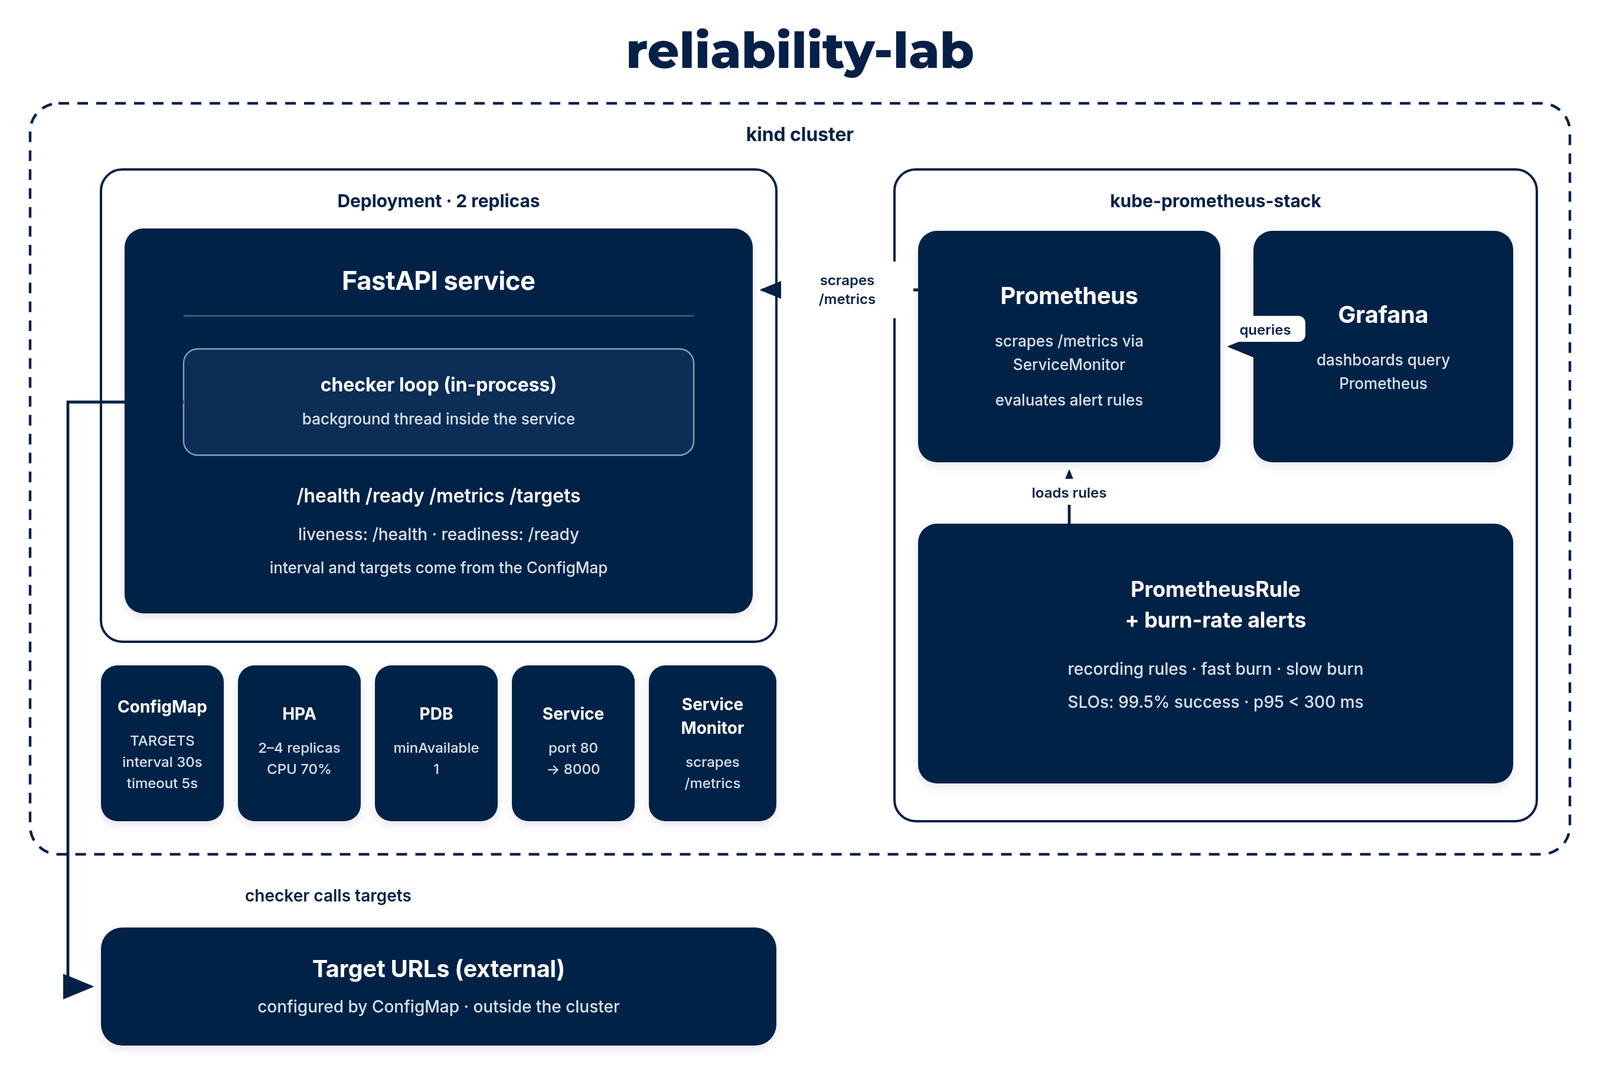
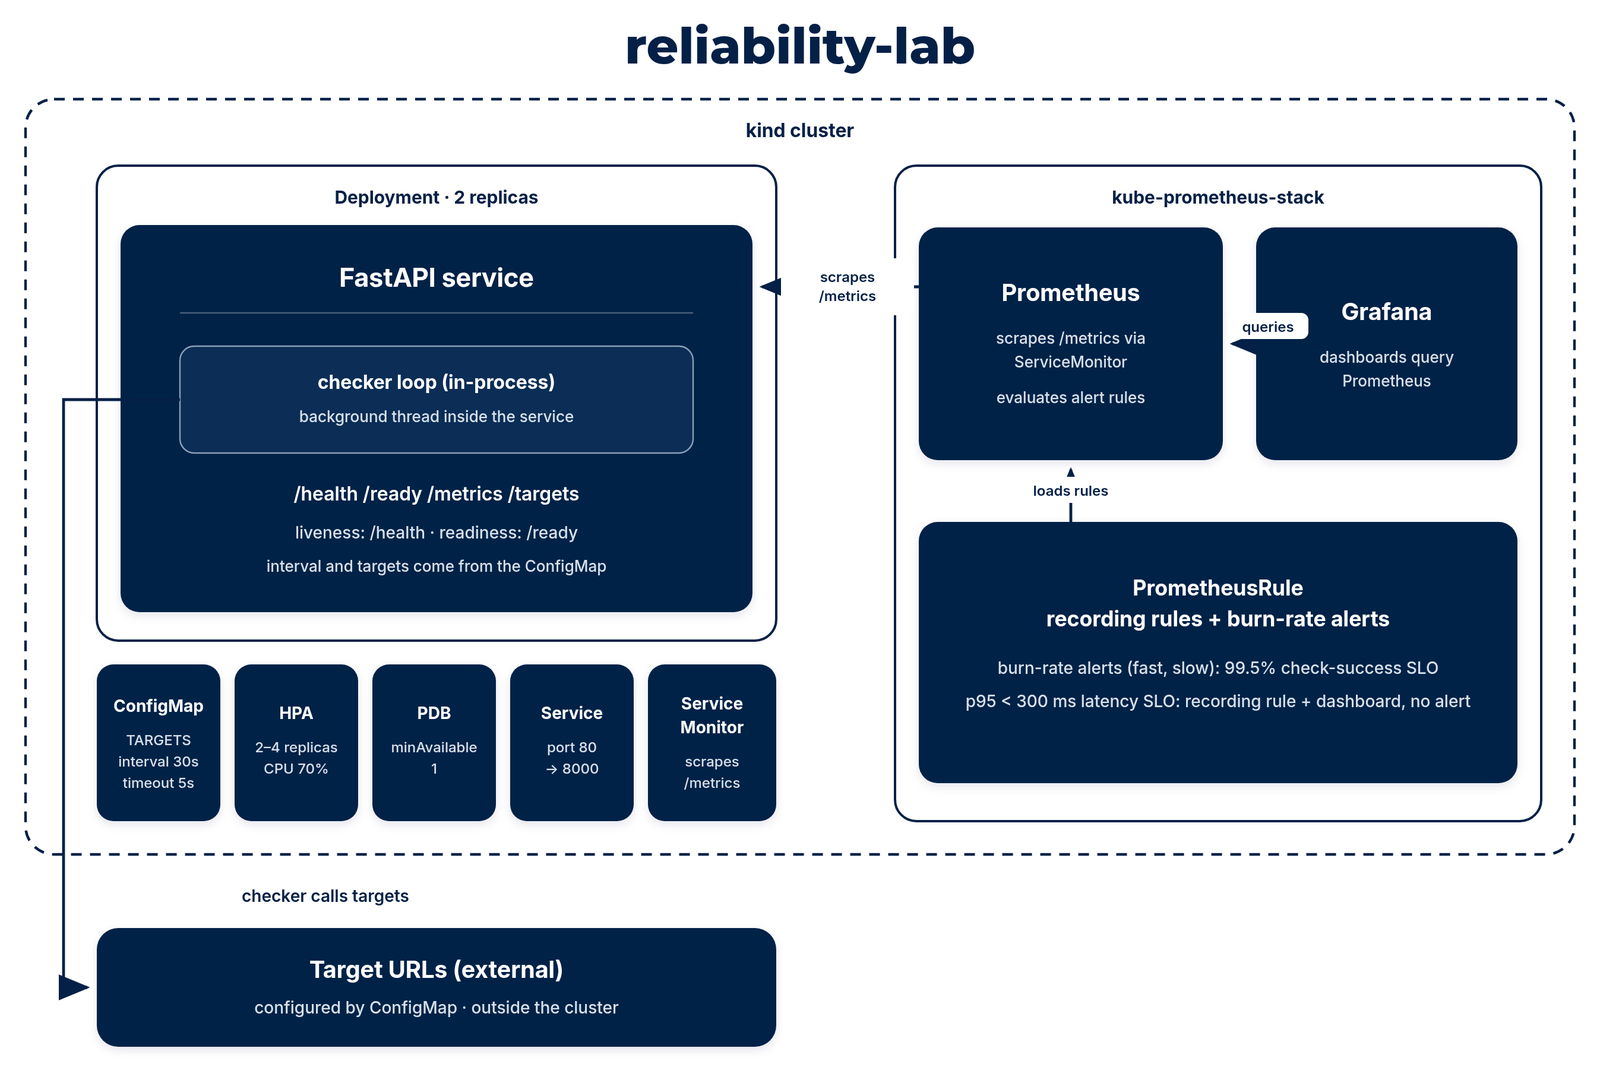
Make docs match the code and the drill; reproducible quickstart
- State that the live alert drill used a simplified single-window
  fast-burn rule; the committed multi-window rule is covered by promtool
  tests. Re-run with the committed rule listed as pending.
- Makefile: install kube-prometheus-stack (release mon, namespace
  monitoring) before applying CRs, load the Grafana dashboard ConfigMap,
  apply namespace.yaml first, optional metrics-server target.
- Rename error_budget_remaining to error_budget_burn_rate:ratio_rate5m
  (it is a 5m burn rate) in rules, k8s manifest, dashboard, docs, tests.
- Fix SLO error-budget math and per-replica note; update measured section.
- Latency SLO: recording rule and dashboard only; diagram and README say so.
- Add promtool tests for slow burn, no burn, and the burn-rate rule.
- Sync test now also covers recording rules and dashboard queries.
- Billing alarm notifies an SNS topic with optional email subscription.
- Runbook escalation consistent with 14.4x burn (~50h budget).
- Correct pod-kill postmortem root cause.
- Validate-only wording in Terraform and DESIGN.
- CI badge, Limitations (HPA needs metrics-server, quickstart not re-run).

diff --git a/tests/test_prometheusrule_sync.py b/tests/test_prometheusrule_sync.py
@@ -1,28 +1,35 @@
-"""Keep k8s PrometheusRule alerts in sync with the promtool-tested source."""
+"""Keep the k8s PrometheusRule in sync with the promtool-tested source files."""
 
 from __future__ import annotations
 
+import json
 from pathlib import Path
 
 import yaml
 
 ROOT = Path(__file__).resolve().parents[1]
-SOURCE = ROOT / "observability" / "alert-rules.yaml"
+ALERTS = ROOT / "observability" / "alert-rules.yaml"
+RECORDING = ROOT / "observability" / "recording-rules.yaml"
 MANIFEST = ROOT / "k8s" / "prometheusrule.yaml"
+DASHBOARD = ROOT / "observability" / "grafana-dashboard.json"
 
 
 def _normalize_expr(expr: str) -> str:
     return " ".join(expr.split())
 
 
-def _alerts_by_name(groups: list[dict]) -> dict[str, dict]:
-    alerts: dict[str, dict] = {}
+def _rules_by_key(groups: list[dict], key: str) -> dict[str, dict]:
+    rules: dict[str, dict] = {}
     for group in groups:
         for rule in group.get("rules", []):
-            name = rule.get("alert")
+            name = rule.get(key)
             if name:
-                alerts[name] = rule
-    return alerts
+                rules[name] = rule
+    return rules
+
+
+def _manifest_groups() -> list[dict]:
+    return yaml.safe_load(MANIFEST.read_text())["spec"]["groups"]
 
 
 def test_prometheusrule_release_label():
@@ -31,10 +38,8 @@ def test_prometheusrule_release_label():
 
 
 def test_k8s_prometheusrule_alerts_match_observability_source():
-    source = yaml.safe_load(SOURCE.read_text())
-    manifest = yaml.safe_load(MANIFEST.read_text())
-    src_alerts = _alerts_by_name(source["groups"])
-    k8s_alerts = _alerts_by_name(manifest["spec"]["groups"])
+    src_alerts = _rules_by_key(yaml.safe_load(ALERTS.read_text())["groups"], "alert")
+    k8s_alerts = _rules_by_key(_manifest_groups(), "alert")
 
     assert src_alerts.keys() == k8s_alerts.keys()
 
@@ -43,3 +48,24 @@ def test_k8s_prometheusrule_alerts_match_observability_source():
         assert _normalize_expr(got["expr"]) == _normalize_expr(src["expr"]), name
         assert got.get("labels") == src.get("labels"), name
         assert got.get("for") == src.get("for"), name
+
+
+def test_k8s_prometheusrule_recording_rules_match_observability_source():
+    src = _rules_by_key(yaml.safe_load(RECORDING.read_text())["groups"], "record")
+    k8s = _rules_by_key(_manifest_groups(), "record")
+
+    assert src.keys() == k8s.keys()
+
+    for name, rule in src.items():
+        assert _normalize_expr(k8s[name]["expr"]) == _normalize_expr(rule["expr"]), name
+
+
+def test_dashboard_queries_use_defined_recording_rules():
+    recorded = set(_rules_by_key(yaml.safe_load(RECORDING.read_text())["groups"], "record"))
+    dashboard = json.loads(DASHBOARD.read_text())
+    for panel in dashboard["panels"]:
+        for target in panel["targets"]:
+            expr = target["expr"]
+            if expr.startswith("reliability:"):
+                assert expr in recorded, expr
+    assert "reliability:error_budget_burn_rate:ratio_rate5m" in recorded

diff --git a/README.md b/README.md
@@ -1,5 +1,7 @@
 # reliability-lab
 
+[![ci](https://github.com/dardan-hoxhaj/reliability-lab/actions/workflows/ci.yml/badge.svg?branch=main)](https://github.com/dardan-hoxhaj/reliability-lab/actions/workflows/ci.yml?query=branch%3Amain)
+
 A small URL monitor run like a production system: checks, SLOs, burn-rate alerts, and failure drills.
 
 Status: drills were run on a kind cluster (2026-11-14). No AWS resources have been created.
@@ -9,7 +11,8 @@ Status: drills were run on a kind cluster (2026-11-14). No AWS resources have be
 - Checks a list of URLs on an interval.
 - Records status code, latency, and success or failure.
 - Exposes `/health`, `/ready`, `/metrics`, and `/targets`.
-- Defines two SLOs and burn-rate alerts before the service was built.
+- Defines two SLOs (check success and request latency) before the service was built. See [docs/SLO.md](docs/SLO.md).
+- Multi-window burn-rate alerts (fast and slow) on the check-success SLO. The latency SLO is tracked by a recording rule and a dashboard panel, without a burn-rate alert.
 
 ## Architecture
 
@@ -26,10 +29,12 @@ flowchart LR
   api --> metrics[Prometheus metrics]
   metrics --> prom[Prometheus]
   prom --> grafana[Grafana]
-  prom --> alerts[Burn-rate alerts]
+  prom --> alerts[Burn-rate alerts on check success]
 ```
 
 ## Quickstart
+
+Unit tests and rule checks, no cluster needed:
 
 ```bash
 git clone https://github.com/dardan-hoxhaj/reliability-lab.git
@@ -39,40 +44,56 @@ pip install -r requirements-dev.txt
 make test
 ```
 
-On a machine with Docker and kind:
+On a machine with Docker, kind, kubectl, and helm:
 
 ```bash
-make up
-make deploy
-make demo
+make up        # kind cluster + kube-prometheus-stack (release "mon", namespace "monitoring") + Grafana dashboard
+make deploy    # build image, load into kind, apply k8s/namespace.yaml then k8s/
+make demo      # port-forward and curl /health, /targets, /metrics
+make metrics-server   # optional: lets the HPA read CPU (kind does not ship metrics-server)
 ```
+
+How the pieces connect:
+
+- `make up` installs kube-prometheus-stack with Helm before any app manifests are applied, so the `ServiceMonitor` and `PrometheusRule` CRDs exist when `make deploy` runs.
+- The chart's Prometheus selects ServiceMonitors and PrometheusRules labelled `release: mon` in any namespace. Both objects in `k8s/` carry that label.
+- `make dashboard` (part of `make up`) loads `observability/grafana-dashboard.json` as a ConfigMap labelled `grafana_dashboard=1` in the `monitoring` namespace. The chart's Grafana sidecar imports it as the `reliability-lab` dashboard.
+- Grafana: `kubectl -n monitoring port-forward svc/mon-grafana 3000:80`. Prometheus: `kubectl -n monitoring port-forward svc/mon-kube-prometheus-stack-prometheus 9090`.
 
 ## Measured results
 
 | Item | Result |
 |---|---|
-| pytest | 10 passed, 82% coverage (local, 2026-11-14) |
+| pytest | 14 passed, 82% coverage (local, 2026-11-14) |
 | ruff | clean |
 | promtool check rules | 6 rules, success |
-| promtool test rules | success |
+| promtool test rules | success (fast burn, slow burn, no-burn, crash loop, burn-rate recording rule) |
 | kubeconform | valid (CRDs skipped with -ignore-missing-schemas) |
 | terraform validate | success |
 | drills | pod kill 6s, bad deploy 45s, hey 7264/7264 at 242 req/s (p95 131ms) |
 | image size | 218MB (`reliability-lab:local`, 2026-11-14) |
-| burn-rate alert | fired at 01:10 ET, inactive at 01:19 ET after fix (2026-11-14) |
+| burn-rate drill | simplified single-window fast-burn rule fired at 01:10 ET, inactive at 01:19 ET after fix (2026-11-14) |
 
-## Limitations
+## Alert drill
 
-- Terraform is validate-only. No `terraform apply`. No remote state.
-- kind, not EKS. CI does not deploy on `main`.
-- Image is 218MB. A multi-stage build would shrink it; not done in this pass.
-- The load test did not burn the error budget (all requests succeeded). The burn-rate alert was proven separately with a failing target: ReliabilityErrorBudgetFastBurn fired and recovered (see docs/drills/README.md).
-- Grafana screenshot is in `docs/drills/grafana-dashboard.png`.
+The live drill pointed the checker at a URL that always returns 500. It used a **simplified single-window version** of the fast-burn rule (5m failure ratio > 7.2%, `for: 1m`), not the committed multi-window rule (5m and 1h, `for: 2m`). The committed rules are verified by the promtool unit tests in `observability/alert-tests.yaml`. Timeline and details: [docs/drills/README.md](docs/drills/README.md).
 
 ![Alert firing](docs/drills/alert-firing.png)
 
-[Grafana dashboard](docs/drills/grafana-dashboard.png) · [Alert recovered](docs/drills/alert-recovered.png)
+[Grafana dashboard](docs/drills/grafana-dashboard.png) · [Alert recovered](docs/drills/alert-recovered.png) · [Pod-kill postmortem](docs/postmortems/drill-podkill.md) · [Runbook](docs/RUNBOOK.md)
+
+## Limitations
+
+- The live alert drill used a simplified single-window fast-burn rule. A re-run with the committed multi-window rule is pending.
+- The Quickstart cluster steps (`make up`, Helm install, dashboard ConfigMap, apply ordering, `make metrics-server`) were updated after the drills and have not been re-run end to end since.
+- The HPA needs metrics-server, which kind does not include by default. Without `make metrics-server`, the HPA reports unknown CPU and stays at 2 replicas.
+- The latency SLO has no burn-rate alert, only a recording rule and dashboard panel.
+- Terraform is validate-only. No `terraform apply`. No remote state.
+- kind, not EKS. CI does not deploy on `main`.
+- Image is 218MB. A multi-stage build would shrink it; not done in this pass.
+- The load test did not burn the error budget (all requests succeeded), so the alert drill used a failing target instead.
+- The Grafana screenshot shows the third panel's old label, "Error budget remaining". That panel is now "Error budget burn rate (5m)"; see docs/drills/README.md.
 
 ## Cost
 
-No AWS resources are created by this repo as committed. If you apply the Terraform, the billing alarm defaults to $10. Tear down with `terraform destroy` after screenshots.
+No AWS resources are created by this repo as committed. If you apply the Terraform, it creates an ECR repository, an OIDC role, an SNS topic, and a billing alarm (default $10) that notifies the topic. Set `billing_alert_email` to receive the alarm by email (AWS sends a confirmation link), or to `""` to skip the subscription. Tear down with `terraform destroy`.

diff --git a/docs/SLO.md b/docs/SLO.md
@@ -7,7 +7,19 @@ Defined before the service was built. Window is 30 days.
 99.5% of URL checks succeed.
 
 Error budget: 0.5% of checks may fail in a 30-day window.
-At one check every 30 seconds against 2 targets, that is about 1,728 checks per day, or about 8.6 failed checks per day before the budget is gone.
+
+Each pod runs its own checker loop. With the defaults in `k8s/configmap.yaml` (one round every 30 seconds, 2 targets), one pod makes 2,880 rounds × 2 targets = **5,760 checks per day**. 0.5% of that is about **28.8 failed checks per day** per pod before the budget is spent at an even rate.
+
+The Deployment runs 2 replicas, and each replica checks the same targets independently, so the cluster as a whole records about 11,520 checks per day (about 57.6 allowed failures per day). The SLO is a ratio, so the replica count does not change the 0.5% budget; it only changes the absolute counts.
+
+Alerting on this SLO uses multi-window burn rates (see `observability/alert-rules.yaml`):
+
+| Alert | Burn rate | Windows | Failure-ratio threshold | Severity |
+|---|---|---|---|---|
+| `ReliabilityErrorBudgetFastBurn` | 14.4x | 5m and 1h, for 2m | 7.2% | page |
+| `ReliabilityErrorBudgetSlowBurn` | 6x | 30m and 6h, for 15m | 3% | ticket |
+
+At a 14.4x burn, a 30-day budget is gone in about 30 × 24 / 14.4 = 50 hours. At 6x, in about 5 days.
 
 ## SLO 2: request latency
 
@@ -15,10 +27,20 @@ At one check every 30 seconds against 2 targets, that is about 1,728 checks per 
 
 This covers `/health`, `/ready`, `/metrics`, and `/targets`. It does not cover the latency of the targets being checked.
 
+This SLO is tracked by the `reliability:http_latency_p95:rate5m` recording rule and the "HTTP latency p95 (5m)" dashboard panel. It has **no burn-rate alert** in this repo; the burn-rate alerts cover SLO 1 only.
+
+## Dashboard: burn rate panel
+
+The `reliability:error_budget_burn_rate:ratio_rate5m` recording rule is the 5-minute failure ratio divided by the 0.5% budget. A value of 1 means the service is failing at exactly the rate the SLO allows; 14.4 is the fast-burn page line; 0 means no failures in the last 5 minutes. It is a short-window rate, not the budget remaining over 30 days.
+
 ## Why burn-rate alerts
 
 A single threshold (for example "error rate > 1%") pages on a short spike and stays quiet during a slow leak. Multi-window burn-rate alerts page when the budget is being consumed fast enough to matter, and ticket when it is a slow leak. See the Google SRE workbook.
 
-## Not measured yet
+## Measured so far
 
-These SLOs are defined. They have not been measured against a live cluster in this build. The drills section will record the first real numbers.
+From the kind drills on 2026-11-14 (details in `docs/drills/README.md`):
+
+- Under the `hey` load test, every request succeeded and `/health` p95 was 131 ms, inside the 300 ms latency SLO.
+- With the target pointed at a URL that always returns 500, a fast-burn alert fired and then cleared after the target was fixed. That live drill used a simplified single-window version of the fast-burn rule, not the committed multi-window rule. The committed rules are verified by `promtool test rules`.
+- No 30-day measurement exists. The cluster was only up for the drill session.

diff --git a/docs/drills/README.md b/docs/drills/README.md
@@ -27,15 +27,19 @@ Dashboard `reliability-lab` after Prometheus scrape:
 
 - Check success rate (5m): 1
 - HTTP latency p95 (5m): 0.0095 s
-- Error budget remaining: 1
+- "Error budget remaining": 1
 - Pod restarts (15m): 0
+
+The third panel was labelled "Error budget remaining" at the time, and the screenshot still shows that label. It actually computed 1 minus the 5-minute burn rate, so 1 only meant "no failed checks in the last 5 minutes", not "the whole 30-day budget is left". It has since been renamed to "Error budget burn rate (5m, 1 = on budget)" and now shows the burn rate directly (0 for the same data). See `docs/SLO.md`.
 
 ![Grafana dashboard](grafana-dashboard.png)
 
 ## Error-budget burn (alert fired and recovered)
 
+**Rule used in this drill:** a simplified, single-window version of the fast-burn rule, loaded as a separate PrometheusRule in the `monitoring` namespace: failure ratio over 5m > 0.072 (14.4 × 0.5%), `for: 1m`. It kept the alert name `ReliabilityErrorBudgetFastBurn`. The committed rule in `observability/alert-rules.yaml` and `k8s/prometheusrule.yaml` is multi-window (5m **and** 1h, `for: 2m`). The committed rule was not the one that fired here; its behaviour is verified by the promtool unit tests in `observability/alert-tests.yaml`. A re-run of this drill with the committed rule is pending.
+
 - 00:53 ET: `TARGETS` set to `https://httpbin.org/status/500`. Checks returned `status_500`.
-- 01:10 ET: `ReliabilityErrorBudgetFastBurn` was FIRING in Prometheus (value 1, failure rate over the 5m window).
+- 01:10 ET: the simplified `ReliabilityErrorBudgetFastBurn` rule was FIRING in Prometheus (value 1: 100% of checks failed over the 5m window).
 - 01:14 ET: `TARGETS` set back to `https://example.com`. Deployment rolled out.
 - 01:19 ET: the same alert was INACTIVE.
 
@@ -43,6 +47,7 @@ Dashboard `reliability-lab` after Prometheus scrape:
 
 ![Alert recovered](alert-recovered.png)
 
-## Honest gaps
+## Known gaps
 
-- The load test did not fire an alert. A healthy service under load should not. The burn alert was proved with a failing target instead.
+- The load test did not fire an alert. A healthy service under load should not. The burn alert was exercised with a failing target instead.
+- The live burn drill used the simplified single-window rule described above, not the committed multi-window rule. Re-running it with the committed rule is pending.

diff --git a/docs/LEARNING-PATH.md b/docs/LEARNING-PATH.md
@@ -6,9 +6,9 @@ Do these in order. After each step, you should be able to say why that piece exi
 2. **Service.** Write `app/config.py`, `app/checker.py`, `app/metrics.py`, `app/main.py`. Endpoints: `/health`, `/ready`, `/metrics`, `/targets`. Write the tests in `tests/`. Run `make test`.
 3. **Container.** Write the Dockerfile (pinned base, non-root, healthcheck). `docker build` and note the size.
 4. **CI.** Add the GitHub Actions workflow: ruff, pytest, docker build, Trivy, gitleaks, promtool, kubeconform, terraform validate. Pin actions. Least privilege.
-5. **kind.** `kind create cluster`, apply `k8s/`. Confirm 2 replicas and `/health`.
-6. **Prometheus and Grafana.** Install kube-prometheus-stack. Load the dashboard JSON and the recording rules.
-7. **SLOs and alerts.** Write `docs/SLO.md` first. Then the burn-rate rules and `promtool test rules`.
-8. **Terraform.** ECR, OIDC role scoped to `main`, billing alarm. `fmt` and `validate` only.
+5. **kind and monitoring.** `make up`: create the kind cluster, install kube-prometheus-stack with Helm (release `mon`, namespace `monitoring`) so the ServiceMonitor and PrometheusRule CRDs exist, and load the dashboard ConfigMap. Optionally `make metrics-server` so the HPA can read CPU.
+6. **Deploy.** `make deploy`: build the image, load it into kind, apply `k8s/namespace.yaml` first, then `k8s/`. Confirm 2 replicas and `/health`, then check that Prometheus shows the `reliability` target and rules, and Grafana shows the `reliability-lab` dashboard. Explain why the `release: mon` label matters.
+7. **SLOs and alerts.** Write `docs/SLO.md` first. Then the burn-rate rules and `promtool test rules`. Keep `k8s/prometheusrule.yaml` in sync with `observability/` (the pytest sync test enforces this).
+8. **Terraform.** ECR, OIDC role scoped to `main`, billing alarm that notifies an SNS topic (optional email subscription). `fmt` and `validate` only.
 9. **Drills.** Run the three scripts. Record detect and recover times. Write the postmortem.
 10. **Docs.** Replace every placeholder in the README with a number you measured.

diff --git a/docs/DESIGN.md b/docs/DESIGN.md
@@ -2,6 +2,6 @@
 
 - **kind, not EKS.** The drills and the demo run on a laptop. kind is free and reproducible. EKS is the production shape; this repo does not claim to run there.
 - **Plain manifests, not Helm for the app.** Two replicas, a Service, a ConfigMap, a PDB, and an HPA are easier to read line by line than a chart. kube-prometheus-stack is the one place Helm is worth it, because writing Prometheus and Grafana from scratch is not the lesson.
-- **Burn-rate alerts, not a single threshold.** A 1% error-rate alert pages on noise and misses a slow leak. The fast and slow burn rules follow the SRE workbook so the page means "budget is in danger."
+- **Burn-rate alerts, not a single threshold.** A 1% error-rate alert pages on noise and misses a slow leak. The fast and slow burn rules follow the SRE workbook so the page means "budget is in danger." They cover the check-success SLO. The latency SLO is tracked by a recording rule and a dashboard panel, without its own burn-rate alert.
 - **Python, not Go.** The point is the ops around the service. FastAPI is enough to expose health, ready, metrics, and a status API, and it is what the tests can teach.
-- **No AWS apply by default.** Terraform is a sketch of ECR, an OIDC role scoped to `main`, and a billing alarm. It is not applied.
+- **No AWS apply.** Terraform describes ECR, an OIDC role scoped to `main`, and a billing alarm that notifies an SNS topic. It is validate/plan only in CI; not applied.

diff --git a/docs/RUNBOOK.md b/docs/RUNBOOK.md
@@ -2,17 +2,17 @@
 
 ## ReliabilityErrorBudgetFastBurn
 
-The check success rate is burning the 30-day error budget at more than 14.4x.
+The check failure ratio is above 7.2% over both the last 5 minutes and the last hour. That is a 14.4x burn: at this rate the 30-day error budget is gone in about 50 hours, and 2% of it is spent every hour.
 
 1. Check `kubectl -n reliability-lab get pods` and `kubectl -n reliability-lab logs deploy/reliability`.
 2. Hit `/targets` and see which target is failing.
 3. If one target is down, confirm it is an external outage before paging.
 4. If the service itself is failing, roll back: `kubectl -n reliability-lab rollout undo deploy/reliability`.
-5. Escalate if the budget will be exhausted in under 2 hours and you cannot identify the target.
+5. Escalate if the cause is not identified within 1 hour of the page (about 2% of the monthly budget at this burn rate), or sooner if the failure ratio is well above 7.2% and still climbing.
 
 ## ReliabilityErrorBudgetSlowBurn
 
-The check success rate is burning the budget at more than 6x over a longer window.
+The check failure ratio is above 3% over both the last 30 minutes and the last 6 hours (a 6x burn; the budget would last about 5 days).
 
 1. Same checks as the fast burn, but this is a ticket, not a page.
 2. Look for a target that is flaky rather than hard-down.

diff --git a/docs/postmortems/drill-podkill.md b/docs/postmortems/drill-podkill.md
@@ -13,7 +13,7 @@ One of two replicas was down for about 6 seconds. The Service kept the other rep
 
 ## Root cause
 
-The pod was deleted on purpose. Kubernetes created a replacement. The Deployment's `replicas: 2` and the rolling update settings meant the other pod stayed up.
+The pod was deleted on purpose. The Deployment's ReplicaSet saw one pod missing from `replicas: 2` and created a replacement. The second replica was never touched and kept serving behind the Service the whole time. The Deployment's rolling-update settings played no part: they apply when the pod template changes, not when a pod is deleted.
 
 ## What went well
 
